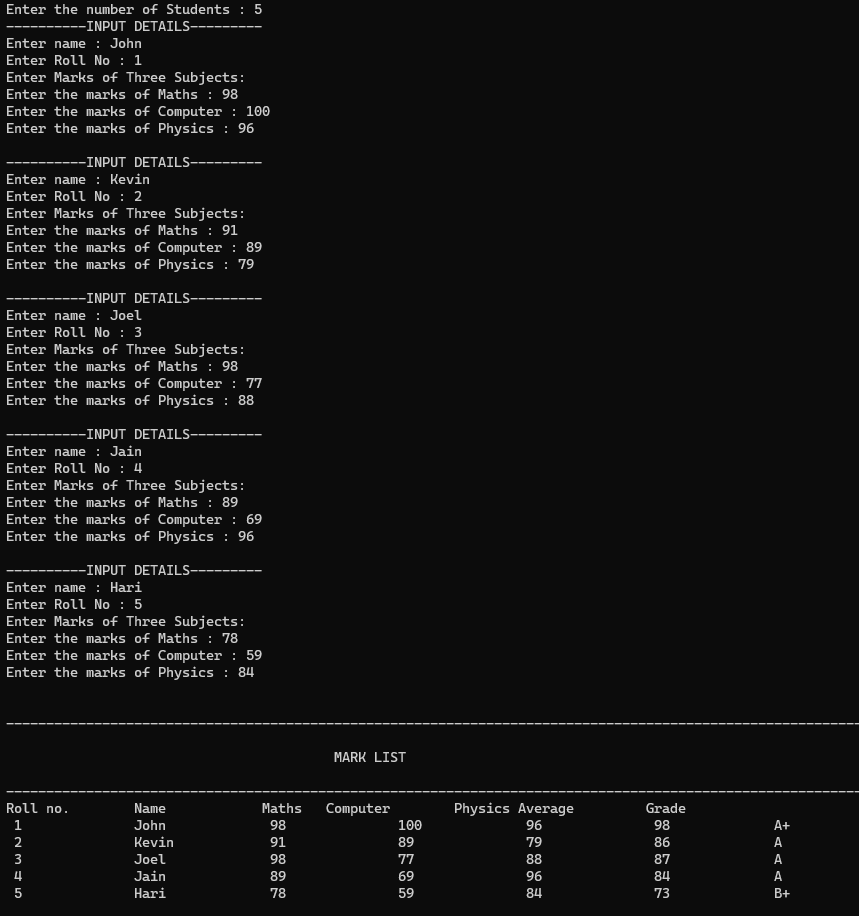
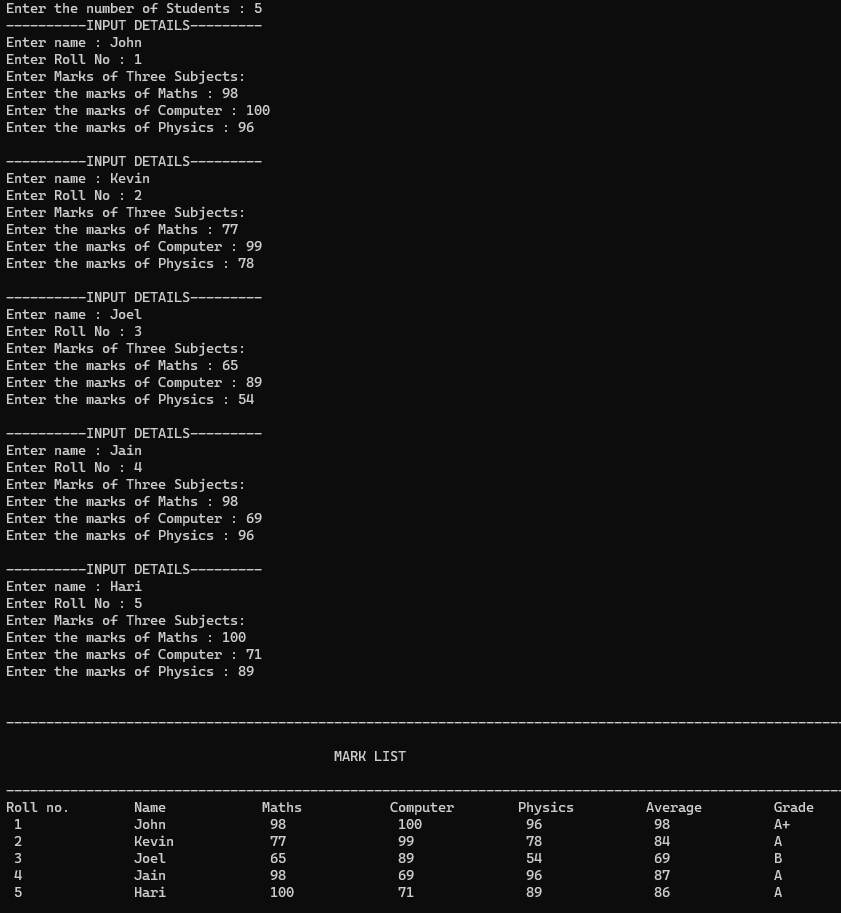
modified

Changed region(s): [[0.0, 0.0, 1.0, 0.9814]]

diff --git a/lab_cycle_1/QUESTION_1/grades.cpp b/lab_cycle_1/QUESTION_1/grades.cpp
@@ -89,7 +89,7 @@ int main() {
   cout << "\n-------------------------------------------------------------------------------------------------------------------" << endl;
   cout << "\n\t\t\t\t\t MARK LIST \n";
   cout << "\n-------------------------------------------------------------------------------------------------------------------" << endl;
-  cout << "Roll no.\tName\t\tMaths\tComputer\tPhysics\tAverage \tGrade\n";
+  cout << "Roll no.\tName\t\tMaths\t\tComputer\tPhysics\t\tAverage \tGrade\n";
   for (int i = 0; i < n; i++) {
     ob[i].display();
     cout << endl;
